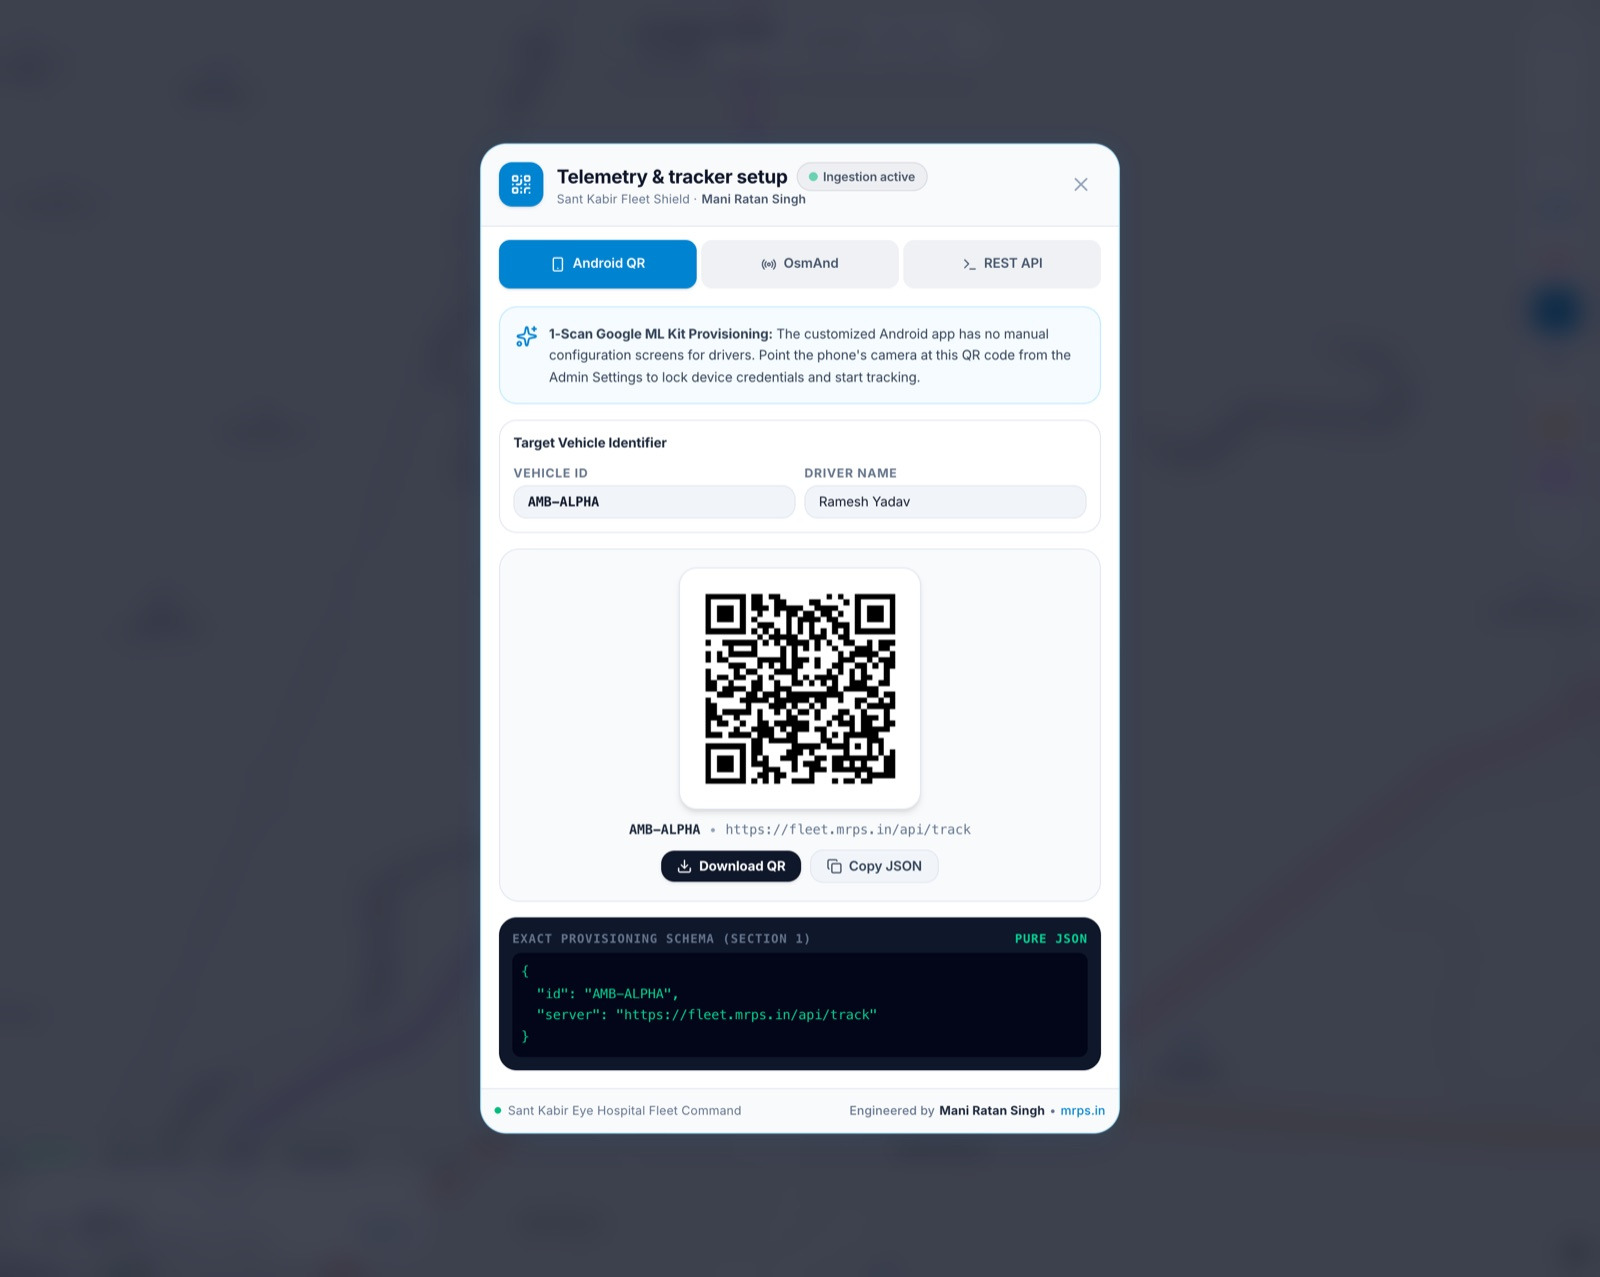
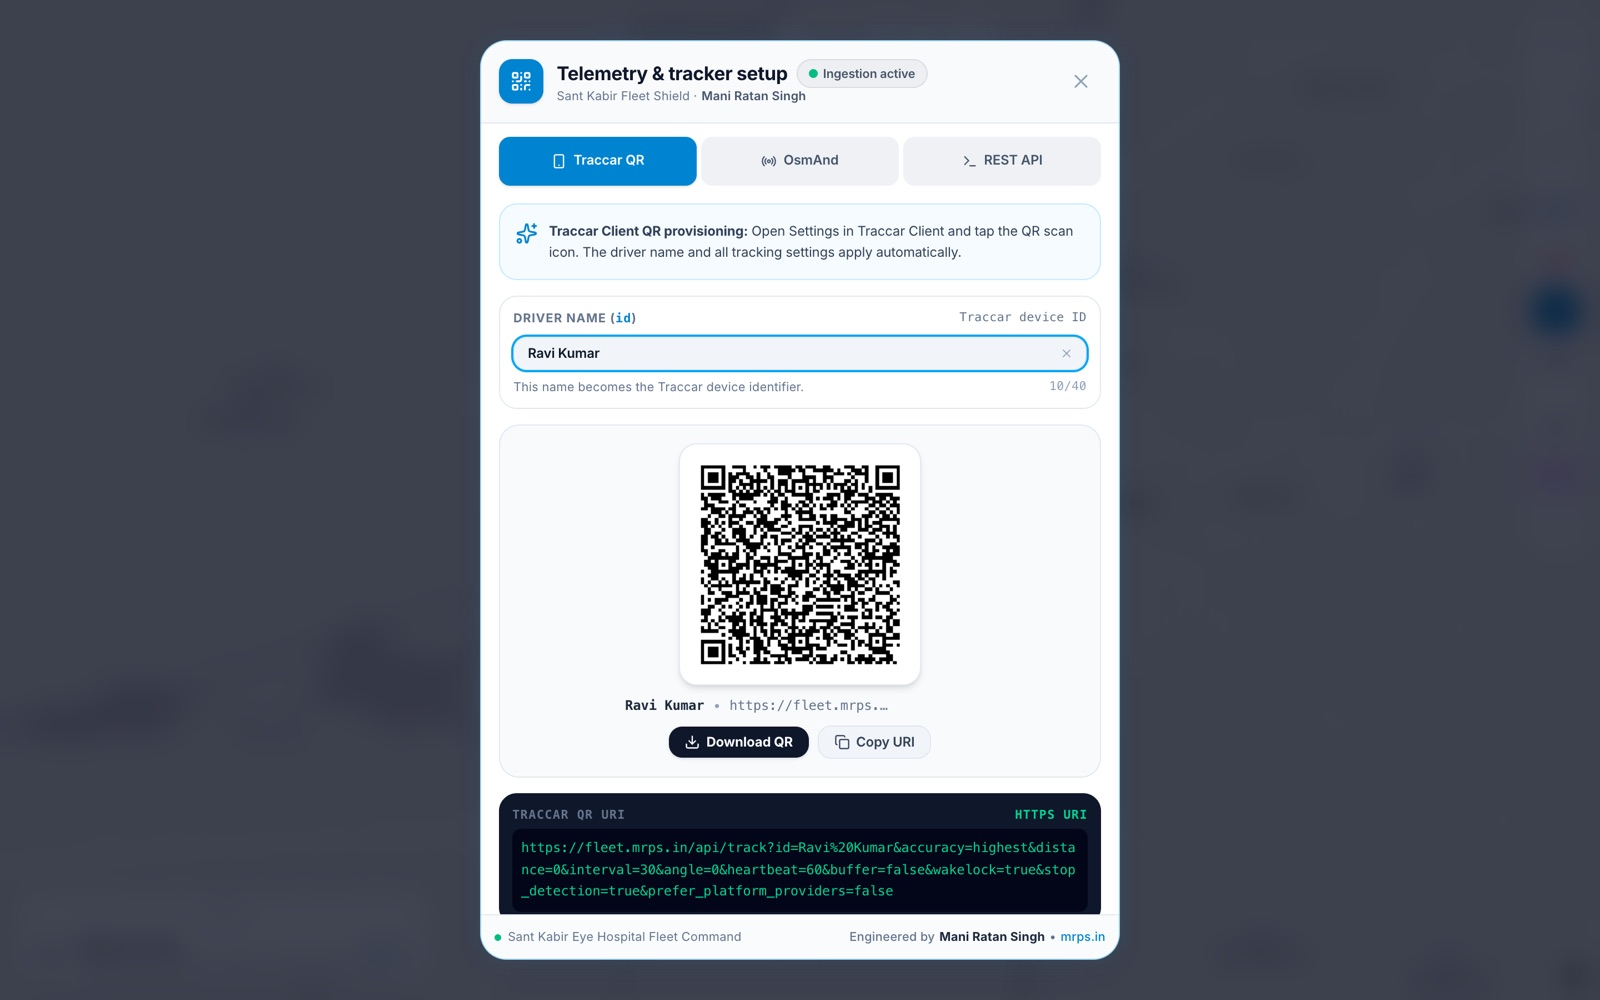
docs: refresh driver provisioning and telemetry screenshots

Changed region(s): [[0.2812, 0.465, 0.7188, 0.961], [0.2812, 0.031, 0.7188, 0.403], [0.9375, 0.217, 1.0, 0.341]]

diff --git a/docs/FEATURES.md b/docs/FEATURES.md
@@ -60,7 +60,7 @@ is removed from the hub state.
 | Feature | Where | Behaviour |
 |---|---|---|
 | QR provisioning | Vehicle row → Provision | Enter the driver name, choose the server, download or copy the Traccar QR. |
-| Telemetry setup | Island radio button | Android QR, OsmAnd and REST API tabs. |
+| Telemetry setup | Island radio button | Driver name, Traccar QR, OsmAnd and REST API tabs. |
 | OsmAnd contract | Telemetry setup | `/api/track` with URL-encoded query parameters. Speed is in knots. |
 | REST contract | Telemetry setup | JSON or form posts to `/api/track` or `/api/location`. |
 | Test ingestion | Provisioning dialog | Sends a test packet and reports the response and latency. |

diff --git a/docs/SCREENSHOTS.md b/docs/SCREENSHOTS.md
@@ -84,7 +84,7 @@ selected or hovered vehicle always shows its tag.
     <td width="50%">
       <img src="assets/screenshots/telemetry-light.jpg" alt="Telemetry and tracker setup dialog" />
       <br /><strong>Telemetry setup</strong><br />
-      Android QR, OsmAnd and REST API tabs with the exact provisioning schema.
+      One driver field, Traccar QR, OsmAnd and REST API tabs.
     </td>
     <td width="50%">
       <img src="assets/screenshots/route-anchoring.jpg" alt="Base-anchored routes" />
